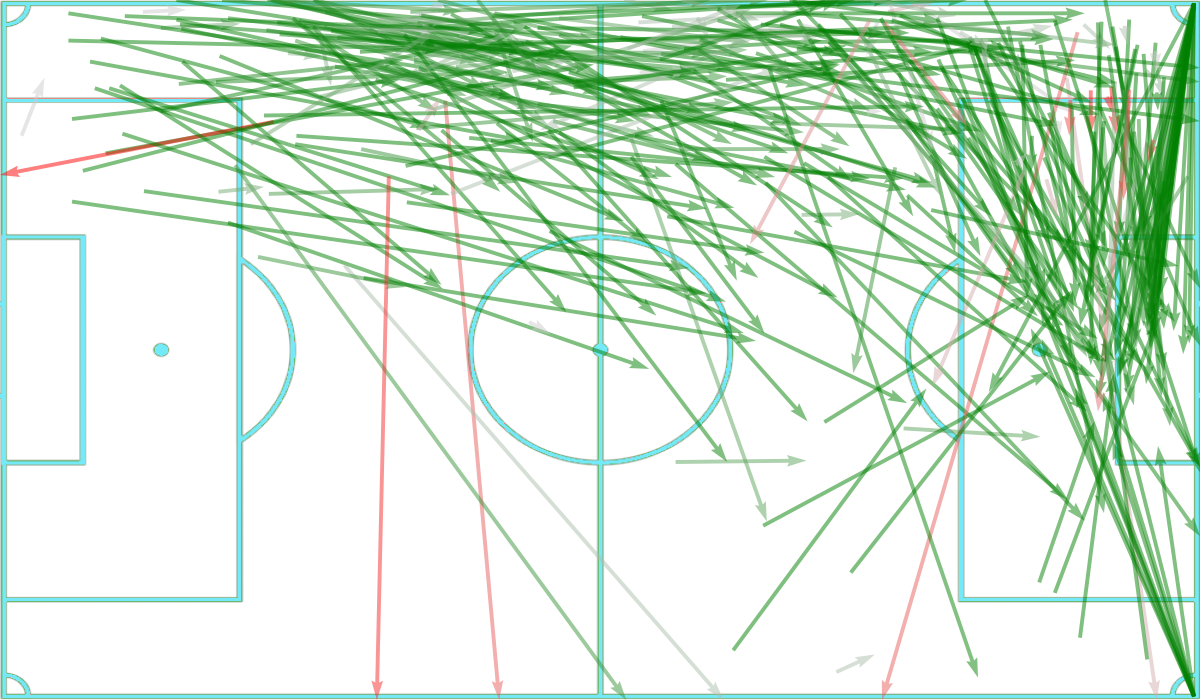
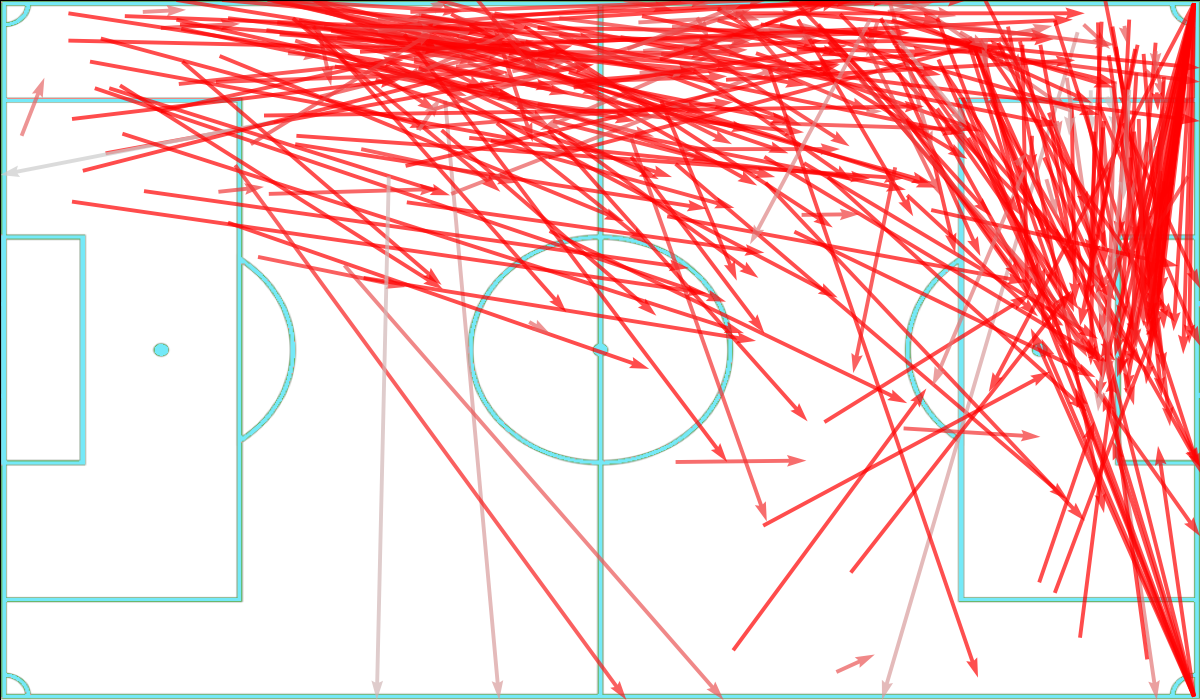
new passes visualisations

diff --git a/passingMapPNG2.py b/passingMapPNG2.py
@@ -1,0 +1,132 @@
+import psycopg2
+from psycopg2 import pool
+import matplotlib.pyplot as plt
+from matplotlib.colors import LinearSegmentedColormap, Normalize
+from matplotlib import image
+import numpy as np
+from data import credentials
+from threatcalc import PitchThreat
+
+def sigmoid_scale(values, sensitivity=3.0):
+    """Sigmoidal scaling to emphasize values close to 0."""
+    return 1 / (1 + np.exp(-sensitivity * values))
+
+
+def generate_player_plot(player_id, success, postgreSQL_pool):
+    print ("called", success)
+    if success == 1:
+    # Custom colormap for transition from Red to Light Grey to Green
+        cmap_data = {
+            'red': [(0.0, 0.8, 0.8),
+                    (1.0, 0.0, 0.0)],
+
+            'green': [(0.0, 0.8, 0.8),
+                      (1.0, 0.5, 0.5)],
+
+            'blue': [(0.0, 0.8, 0.8),
+                     (1.0, 0.0, 0.0)]
+        }
+
+        cm = LinearSegmentedColormap('custom_cmap', cmap_data)
+    else:
+        # Custom colormap for transition from Red to Light Grey to Green
+        # Custom colormap for transition from Grey to Red
+        cmap_data = {
+            'red': [(0.0, 0.8, 0.8),
+                    (1.0, 1.0, 1.0)],
+
+            'green': [(0.0, 0.8, 0.8),
+                      (1.0, 0.0, 0.0)],
+
+            'blue': [(0.0, 0.8, 0.8),
+                     (1.0, 0.0, 0.0)]
+        }
+        cm = LinearSegmentedColormap('custom_cmap', cmap_data)
+
+    # Connecting to the database
+
+
+    ps_connection = postgreSQL_pool.getconn()
+    ps_cursor = ps_connection.cursor()
+    pt = PitchThreat()
+
+    query = """SELECT
+        e.event_id,
+        e.outcome,
+        e.x AS start_x,
+        e.y AS start_y,
+        MAX(CASE WHEN q.q_id = 56 THEN q.value ELSE NULL END) AS zone,
+        MAX(CASE WHEN q.q_id = 140 THEN q.value ELSE NULL END) AS end_x,
+        MAX(CASE WHEN q.q_id = 141 THEN q.value ELSE NULL END) AS end_y,
+        MAX(CASE WHEN q.q_id = 212 THEN q.value ELSE NULL END) AS length,
+        MAX(CASE WHEN q.q_id = 213 THEN q.value ELSE NULL END) AS angle
+    FROM
+        eventfact e
+    JOIN
+        qualifier q
+    ON
+        e.event_id = q.event_id
+    WHERE
+        e.event_type = 1
+        AND e.player_id = %s
+        AND e.outcome = %s
+    GROUP BY
+        e.event_id,
+        e.x,
+        e.y,
+        e.outcome;"""
+
+    ps_cursor.execute(query, (player_id, success))
+    result = ps_cursor.fetchall()
+    #print (result)
+    ps_cursor.close()
+    # release the connection back to connection pool
+    postgreSQL_pool.putconn(ps_connection)
+
+    outcome = np.array([i[1] for i in result])
+    start_x = np.array([float(i[2]) for i in result])
+    start_y = np.array([float(i[3]) for i in result])
+    end_x = np.array([float(i[5]) for i in result])
+    end_y = np.array([float(i[6]) for i in result])
+
+    dx = end_x - start_x
+    dy = end_y - start_y
+
+    threat_values = np.array([pt.calculate_threat_difference((start_x[i], start_y[i]), (end_x[i], end_y[i]))
+                              for i in range(len(start_x))])
+    scaled_threat = sigmoid_scale(threat_values)
+
+    # Normalize the threat values to [0, 1]
+    normalized_threat = (scaled_threat - np.min(scaled_threat)) / (np.max(scaled_threat) - np.min(scaled_threat))
+
+    # Clip the normalized threat values to the range [0, 1]
+    normalized_threat = np.clip(normalized_threat, 0, 1)
+    average_threat = np.mean(normalized_threat)
+
+    fig, ax = plt.subplots(figsize=(12, 7))
+    plt.subplots_adjust(left=0, right=1, top=1, bottom=0)
+
+    #ax.set_facecolor('#333')
+    pitch_image = image.imread('static/images/football_pitch.png')  # replace this with the actual path to your image
+
+    # Display the image on the axis
+    ax.imshow(pitch_image, extent=[0, 100, 0, 100], aspect='auto', alpha=0.7)
+    cmap = cm
+
+    ax.quiver(start_x, start_y, dx, dy, angles='xy', scale_units='xy', scale=1, alpha=0.7, color=cm(normalized_threat))
+
+
+    ax.set_xlim([0, 100])
+    ax.set_ylim([0, 100])
+
+    # Set the aspect ratio to be equal
+    # ax.set_aspect('equal', adjustable='box')
+    fig1 = plt.gcf()
+    # Show the plot
+    if (success == 1):
+        fig1.savefig(f'static/images/successful_passes/{player_id}.png', transparent=True)
+    if (success == 0):
+        fig1.savefig(f'static/images/unsuccessful_passes/{player_id}.png', transparent=True)
+    return average_threat
+
+

diff --git a/app.py b/app.py
@@ -3,6 +3,7 @@ import xGgraph4
 from flask import Flask, render_template, request, session, redirect, url_for, flash
 from data import get, credentials, sankey
 import passingmapPNG
+import passingMapPNG2
 import psycopg2
 from xGgraph4 import genGraphs
 from flask_login import LoginManager, UserMixin, login_user, logout_user, current_user, login_required
@@ -219,8 +220,8 @@ def comparison():
     if all(player_ids):
         for p in player_ids:
             try:
-                spasses.append(passingmapPNG.generate_player_plot(p, 1, get_db_pool()))
-                upasses.append(passingmapPNG.generate_player_plot(p, 0, get_db_pool()))
+                spasses.append(passingMapPNG2.generate_player_plot(p, 1, get_db_pool()))
+                upasses.append(passingMapPNG2.generate_player_plot(p, 0, get_db_pool()))
             except:
                 pass
             xGgraph4.genGraphs(p, get_db_pool(), avgGoalsTotals, avgxGTotals)
@@ -240,8 +241,8 @@ def comparison():
         print (ranks)
         p1stats = stats[0]
         p2stats = stats[1]
-        colourkey.save_color_key_image(spasses[0],spasses[1],str(player_ids[0]),str(player_ids[1]),1)
-        colourkey.save_color_key_image(upasses[0],upasses[1],str(player_ids[0]),str(player_ids[1]),0)
+        #colourkey.save_color_key_image(spasses[0],spasses[1],str(player_ids[0]),str(player_ids[1]),1)
+        #colourkey.save_color_key_image(upasses[0],upasses[1],str(player_ids[0]),str(player_ids[1]),0)
         source1, target1, value1 = data.sankey.sankey(player_ids[0], get_db_pool())
         source2, target2, value2 = data.sankey.sankey(player_ids[1], get_db_pool())
 
